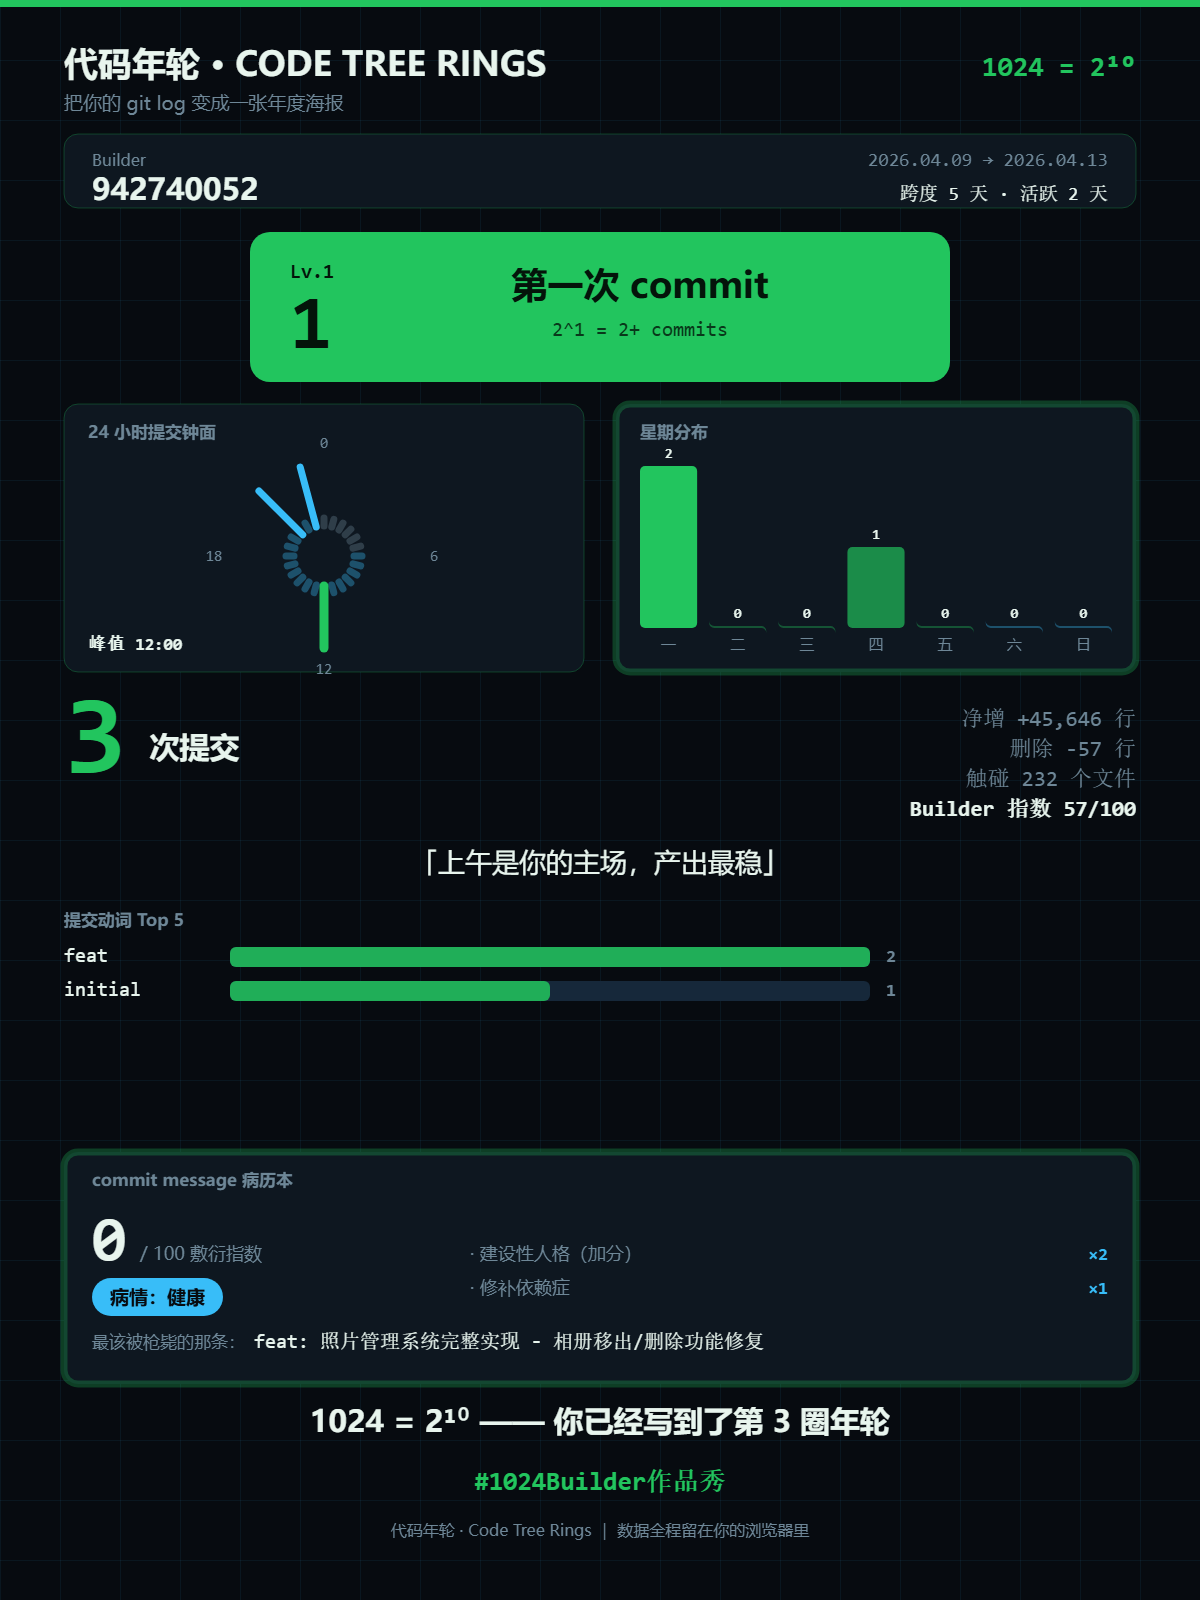
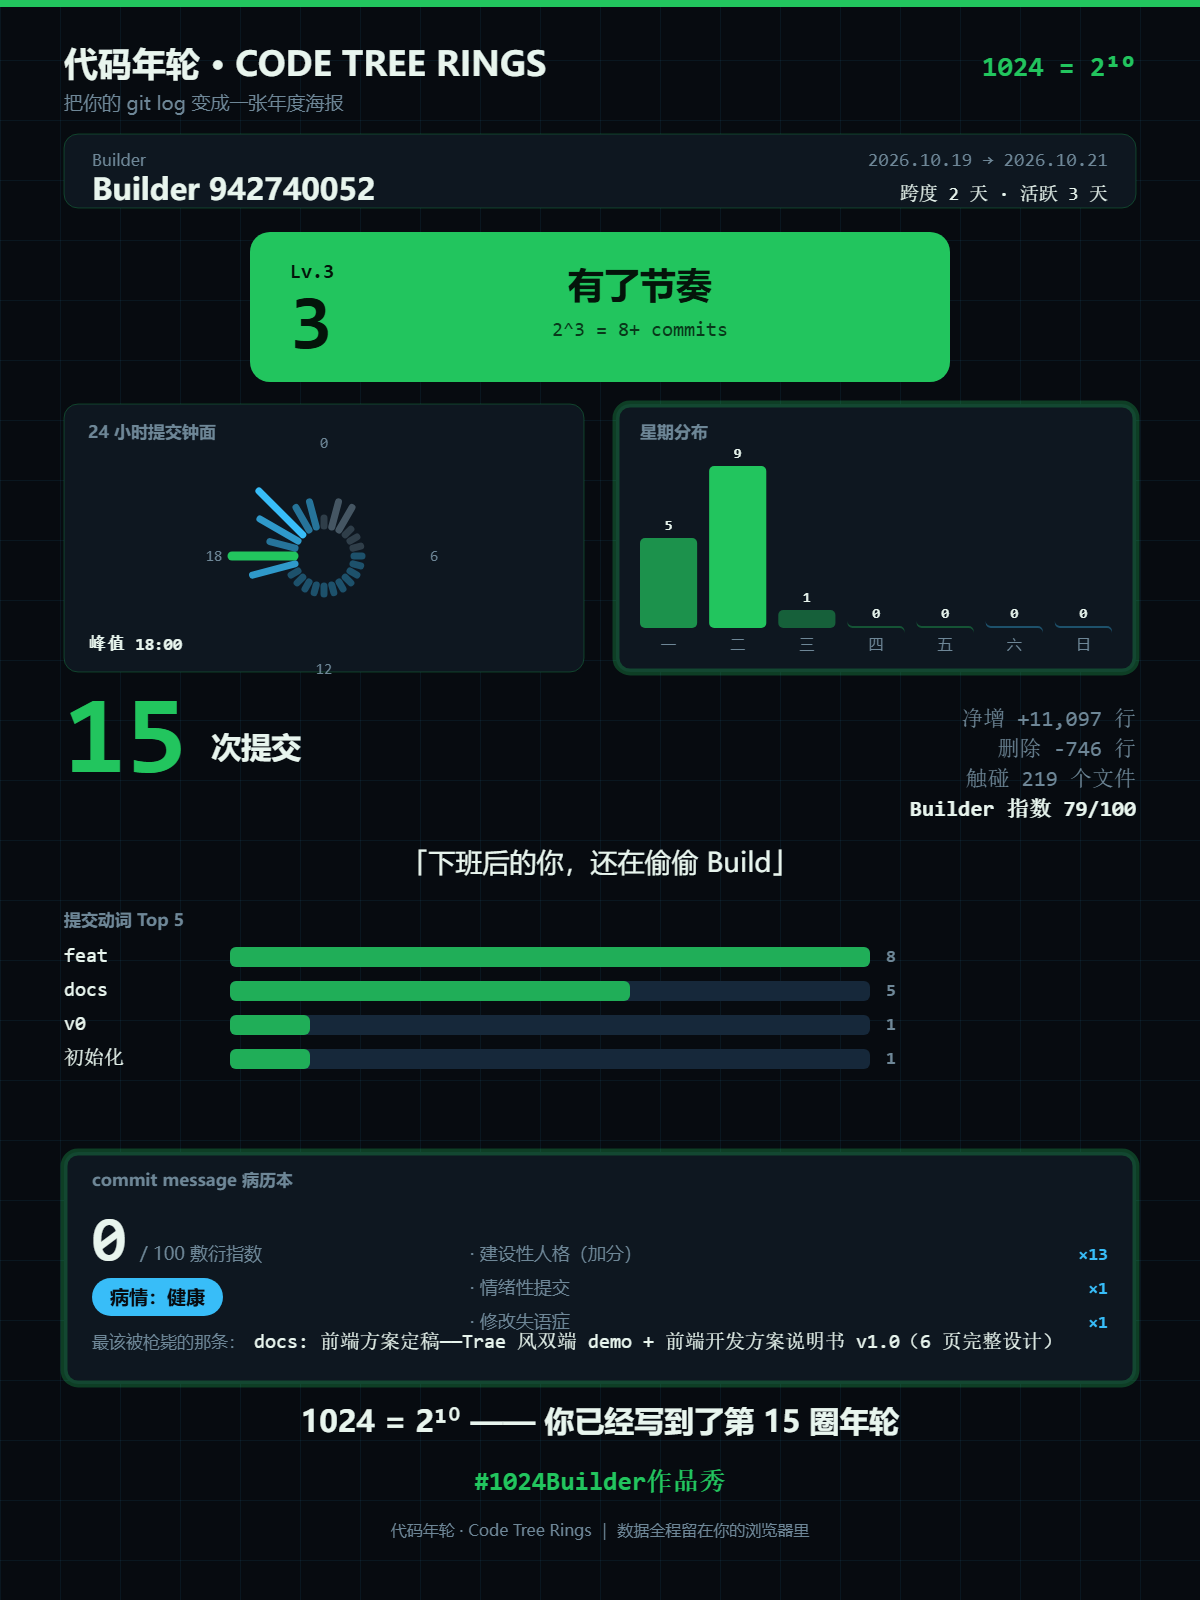
fix: 拖入的 UTF-16 文件也能正确读入
用真实仓库（企业知识库Agent，15 次提交）跑全链路时发现：
FileReader.readAsText 按 UTF-8 解码，Windows 重定向产生的
UTF-16LE 文件读进来是乱码，只解析出 7/15 条提交。

- 新增 decodeFileBuffer：按 BOM 判断 UTF-16LE / UTF-16BE / UTF-8，
  无 BOM 但含 NUL 时按 UTF-16LE 处理
- 拖放与文件读取改用 readAsArrayBuffer + 自建解码
- poster.html 的 fetch 同样改用 arrayBuffer

自检 47 → 49 条，新增 UTF-16LE 字节解码与 UTF-8 正常读取两条断言。

diff --git a/index.html b/index.html
@@ -579,6 +579,56 @@ function utf16ToString(s, littleEndian) {
 }
 
 /**
+ * 读取文件字节并按 BOM 判断编码转成文本。
+ * Windows PowerShell 的 `git log > out.txt` 写的是 UTF-16LE，
+ * 用 FileReader.readAsText 会按 UTF-8 解码成乱码，所以这里读原始字节自己判断。
+ */
+function decodeFileBuffer(buf) {
+  if (!buf) return '';
+  var u8 = new Uint8Array(buf);
+  /* utf16BytesToString 已把字节合成 16 位码元，不能再过一遍 utf16ToString */
+  if (u8.length >= 2 && u8[0] === 0xFF && u8[1] === 0xFE) {
+    return utf16BytesToString(u8, 2, true);
+  }
+  if (u8.length >= 2 && u8[0] === 0xFE && u8[1] === 0xFF) {
+    return utf16BytesToString(u8, 2, false);
+  }
+  if (u8.length >= 3 && u8[0] === 0xEF && u8[1] === 0xBB && u8[2] === 0xBF) {
+    return utf8Decode(u8, 3);
+  }
+  /* 无 BOM 但含 NUL：按 UTF-16LE 处理 */
+  var probe = Math.min(u8.length, 2000);
+  var nul = 0;
+  for (var i = 0; i < probe; i++) if (u8[i] === 0) nul++;
+  if (nul > 3 && nul * 6 > probe) {
+    return utf16BytesToString(u8, 0, true);
+  }
+  return utf8Decode(u8, 0);
+}
+
+/** 字节数组按 UTF-16 读成码元字符串（每个 JS 字符 = 一个 16 位码元） */
+function utf16BytesToString(u8, start, littleEndian) {
+  var s = '';
+  for (var i = start; i + 1 < u8.length; i += 2) {
+    var a = u8[i], b = u8[i + 1];
+    s += String.fromCharCode(littleEndian ? (b << 8) | a : (a << 8) | b);
+  }
+  return s;
+}
+
+/** 字节数组按 UTF-8 解码 */
+function utf8Decode(u8, start) {
+  try {
+    if (typeof TextDecoder === 'undefined') {
+      return String.fromCharCode.apply(null, u8.subarray(start, start + 20000));
+    }
+    return new TextDecoder('utf-8').decode(u8.subarray(start));
+  } catch (e) {
+    return String.fromCharCode.apply(null, u8.subarray(start, start + 20000));
+  }
+}
+
+/**
  * 解析 git log 文本。
  * 支持：自定义 format（三种时间精度）、git 默认格式、--oneline、--numstat、续行、CRLF。
  * 返回 { records, truncated }
@@ -1594,11 +1644,11 @@ function bind() {
     if (!f) return;
     var rd = new FileReader();
     rd.onload = function () {
-      ta.value = String(rd.result || '');
+      ta.value = decodeFileBuffer(rd.result);
       setMsg('parseMsg', 'ok', '已读入 ' + f.name + '，点「生成我的年轮」。');
     };
     rd.onerror = function () { setMsg('parseMsg', 'err', '文件读取失败，请改用粘贴。'); };
-    rd.readAsText(f);
+    rd.readAsArrayBuffer(f);
   });
 
   /* 病历本独立输入 */
@@ -1824,6 +1874,31 @@ function runSelfTest() {
     var r = parseGitLog(u16);
     eq(r.records.length, 1);
     eq(r.records[0].subject, 'feat: x');
+    return true;
+  });
+  t('文件读取：UTF-16LE 字节被正确解码', function () {
+    /* 拖入的 .txt 若是 UTF-16LE（Windows 重定向产物），必须按 UTF-16 读 */
+    var s = 'a1b2c3d|2026-10-20 10:00:00|张三|feat: 中文提交\n1\t0\tsrc/a.js';
+    var bytes = [];
+    bytes.push(0xFF, 0xFE);
+    for (var i = 0; i < s.length; i++) {
+      var c = s.charCodeAt(i);
+      bytes.push(c & 0xFF, (c >> 8) & 0xFF);
+    }
+    var txt = decodeFileBuffer(new Uint8Array(bytes).buffer);
+    ok(txt.indexOf('张三') >= 0, '应含中文作者');
+    var r = parseGitLog(txt);
+    eq(r.records.length, 1);
+    eq(r.records[0].author, '张三');
+    eq(r.records[0].files[0], 'src/a.js');
+    return true;
+  });
+  t('文件读取：UTF-8 文件正常读取', function () {
+    var s = 'a1b2c3d|2026-10-20 10:00:00|Alice|feat: x';
+    var bytes = [];
+    for (var i = 0; i < s.length; i++) bytes.push(s.charCodeAt(i));
+    var txt = decodeFileBuffer(new Uint8Array(bytes).buffer);
+    eq(parseGitLog(txt).records.length, 1);
     return true;
   });
   t('解析：CRLF 换行', function () {
@@ -2090,6 +2165,9 @@ else boot();
 if (typeof globalThis !== 'undefined') {
   globalThis.__CTR__ = {
     parseGitLog: parseGitLog,
+    normalizeInputText: normalizeInputText,
+    decodeFileBuffer: decodeFileBuffer,
+    decodeOctalPath: decodeOctalPath,
     computeStats: computeStats,
     levelFor: levelFor,
     builderIndex: builderIndex,

diff --git a/poster.html b/poster.html
@@ -58,7 +58,10 @@
       }
 
       if (dataUrl) {
-        return fetch(dataUrl).then(function (r) { return r.text(); }).then(function (txt) {
+        /* 用 fetch 拿 ArrayBuffer，自己按 BOM 判断编码
+           （Windows 的 `>` 重定向写的是 UTF-16，fetch().text() 会按 UTF-8 解码成乱码） */
+        return fetch(dataUrl).then(function (r) { return r.arrayBuffer(); }).then(function (buf) {
+          var txt = S.decodeFileBuffer(buf);
           var recs = S.parseGitLog(txt).records;
           var st = S.computeStats(recs);
           var dg = S.diagnoseRecords(recs);
